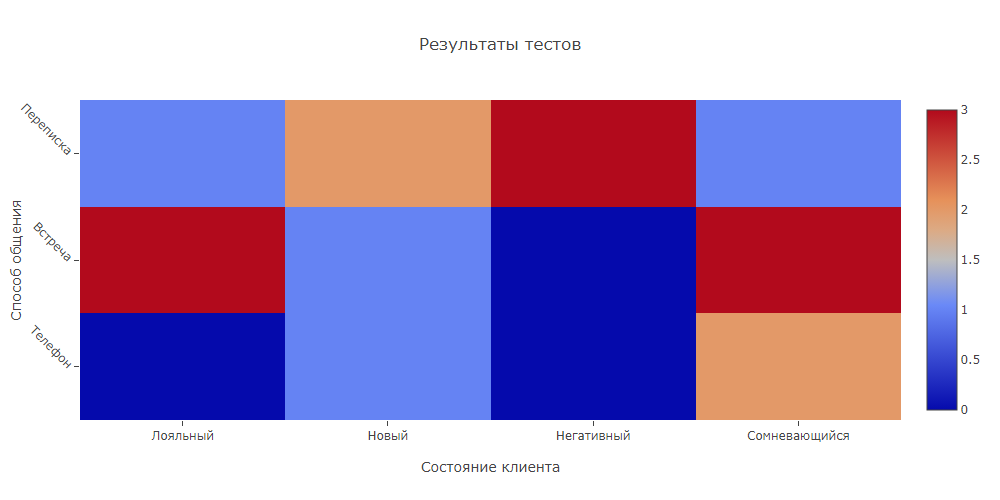
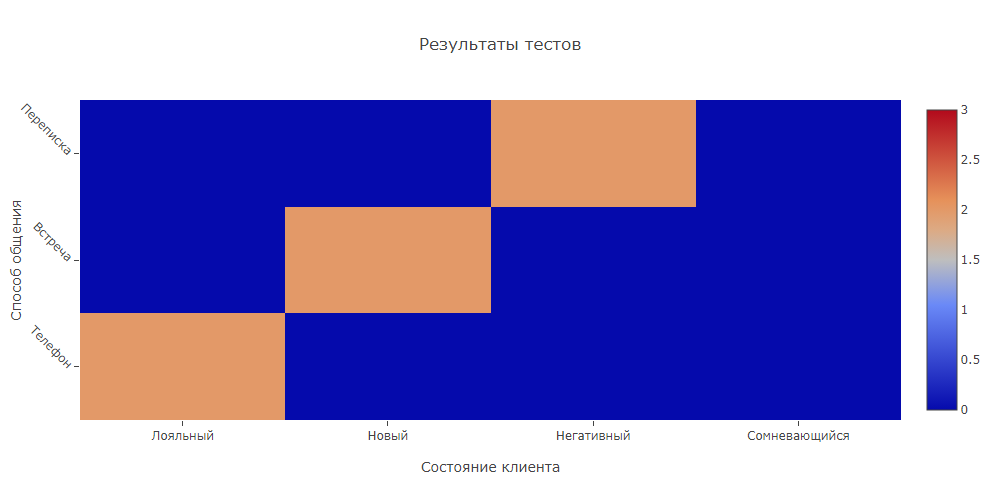
addfile

diff --git a/templates/form.html b/templates/form.html
@@ -57,15 +57,15 @@
 </head>
 <body>
    <h1>Статистика молодцов!</h1>
-    <small>Здесь вы можете просмотреть свою статистику или статистику ваших подчиненных</small>
+    <small>Заполните форму для просмотра статистики вашего подчинённого</small>
 
     <form id="form" onsubmit="event.preventDefault(); submitForm();">
         <div id="form-fields">
             <label for="user-id">Ваш User ID:</label>
             <input type="text" id="user-id" required>
-            <label for="subordinate-first-name">Имя подчиненного (all - если требуется общая статистика):</label>
+            <label for="subordinate-first-name">Имя подчинённого:</label>
             <input type="text" id="subordinate-first-name" required>
-            <label for="subordinate-last-name">Фамилия подчиненного (all - если требуется общая статистика):</label>
+            <label for="subordinate-last-name">Фамилия подчинённого:</label>
             <input type="text" id="subordinate-last-name" required>
         </div>
         <button type="submit">Посмотреть статистику</button>

diff --git a/templates/statistics_page.html b/templates/statistics_page.html
@@ -46,7 +46,9 @@
         var heatmapData = [
             {
                 z: data,
-                type: 'heatmap'
+                type: 'heatmap',
+                zmin: 0,
+                zmax: 3
             }
         ];
 

diff --git a/main.py b/main.py
@@ -9,6 +9,7 @@ from jinja2 import Template
 from sendmail import mas_to_string, send_email, ask_boss
 import queue
 import requests
+from flask import request
 from html2image import Html2Image
 from PIL import Image
 from flask import Flask, render_template
@@ -20,10 +21,10 @@ from threading import Lock
 lock = Lock()
 
 bot = telebot.TeleBot('5844570225:AAHVbCClhE53DdtM-RpZ1vKjrPPB4j_I538', 'markdown')
-con = sqlite3.connect("server.db", check_same_thread=False)
-cur = con.cursor()
-conn = sqlite3.connect('users.db', check_same_thread=False)
-cursor = conn.cursor()
+db_server = sqlite3.connect("server.db", check_same_thread=False)
+cur = db_server.cursor()
+db_users = sqlite3.connect('users.db', check_same_thread=False)
+cursor = db_users.cursor()
 
 
 def set_main_menu():
@@ -50,18 +51,18 @@ def set_main_menu():
 def db_table_val1(user_id: int, user_name: str, user_status: str, username: str):
     cursor.execute('INSERT INTO users (user_id, user_name, user_status, username) VALUES (?, ?, ?, ?)',
                    (user_id, user_name, user_status, username))
-    conn.commit()
+    db_users.commit()
 
 
 def db_table_val2(user_id: int, user_status: str, user_boss: str):
     cursor.execute('INSERT INTO boss_to_users (user_id, user_status, user_boss) VALUES (?, ?, ?)',
                    (user_id, user_status, user_boss))
-    conn.commit()
+    db_users.commit()
 
 def db_table_val3(user_id: int, user_name: str, first_name: str, second_name: str, user_status: str, test_password: int, correct_answers: int, boss_id: int):
     cur.execute('INSERT INTO statistics(user_id, user_name, first_name, second_name, user_status, test_password, correct_answers, boss_id) VALUES (?, ?, ?, ?, ?, ?, ?, ?)',
                    (user_id, user_name, first_name, second_name, user_status, test_password, correct_answers, boss_id))
-    con.commit()
+    db_server.commit()
 
 
 # эта функция обрезает чёрный фон вокруг картинки со статистикой
@@ -132,20 +133,27 @@ def get_text_messages(message):
         bot.send_message(message.from_user.id, "Напишите /start")
         # mutex.release()
     elif message.text == "/show_statistic":
+        user_id = message.from_user.id
+        requests.post('http://127.0.0.1:8080/update', json={"user_id": user_id})
         for value in cursor.execute('SELECT * FROM users WHERE user_id=?', (message.from_user.id,)):
             print(value[2], ' ', value[3])
-            if value[2] == 'manager':
+            if value[2] == 'boss':
                 murkup = types.ReplyKeyboardMarkup(resize_keyboard=True)
                 webAppTest = types.WebAppInfo('https://anyashishkina.github.io/test_repository/')
                 murkup.add(types.InlineKeyboardButton('Заполните форму', web_app=webAppTest))
                 bot.send_message(message.from_user.id, 'Выберите тип клиента', reply_markup=murkup)
-        hti = Html2Image()
-        hti.screenshot(html_str=requests.get('http://127.0.0.1:8080/').text, save_as='statistic.png')
-        crop_background('statistic.png')
-        # mutex.acquire()
-        bot.send_photo(message.chat.id, photo=open('test.png', 'rb'),
-                       caption='Статистика')  # бот показывает картинку
-        # mutex.release()
+            else:
+                user_id = message.from_user.id
+                requests.post('http://127.0.0.1:8080/update', json={"user_id": user_id})
+
+                hti = Html2Image()
+                hti.screenshot(url=f'http://127.0.0.1:8080/?user_id={user_id}', save_as='statistic.png')
+
+                crop_background('statistic.png')
+                # mutex.acquire()
+                bot.send_photo(message.chat.id, photo=open('statistic.png', 'rb'),
+                               caption='Статистика')  # бот показывает картинку
+                # mutex.release()
     elif message.text == "Привет":
         # mutex.acquire()
         bot.send_message(message.from_user.id, "Здравствуйте! Напишите /help")
@@ -318,12 +326,12 @@ def handle_poll_answer(poll_answer):
         if len(queryy) > 0:
             cursor.execute('Update  test_results  SET num_of_right_answers=? WHERE user_id=? AND  test_id=?',
                            (result, user_id,user_id_to_test_boss_key[poll_answer.user.id][0]))
-            conn.commit()
+            db_users.commit()
         else:
             cursor.execute(
                 'INSERT Into test_results(user_id , test_id,  num_of_right_answers, num_of_questions) VALUES(?, ? ,? ,?)',
                 (user_id, user_id_to_test_boss_key[poll_answer.user.id][0], result, user_id_to_num_questions[poll_answer.user.id][0]))
-            conn.commit()
+            db_users.commit()
         user_id_to_tests_options[poll_answer.user.id][0]['result'] = 0
     # if test_id == 4 and b2b_or_b2c == 0:
     if user_id_to_tests_options[poll_answer.user.id][0]['test_id'] == 25 and \
@@ -396,7 +404,7 @@ def handle_poll_answer(poll_answer):
             user_id_to_tests_options[poll_answer.user.id][0]['b2b_or_b2c'] == 2:
         cur.execute('UPDATE statistics SET correct_answers=? WHERE test_password=? AND user_id=?',
                     (user_id_to_tests_options[poll_answer.user.id][0]['result'], user_id_to_tests_options[poll_answer.user.id][0]['test'], poll_answer.user.id))
-        con.commit()
+        db_server.commit()
         user_id_to_tests_options[poll_answer.user.id][0]['b2b_or_b2c'] = 2
 
         # mutex.acquire()
@@ -409,14 +417,24 @@ def handle_poll_answer(poll_answer):
 @bot.message_handler(content_types=['web_app_data'])
 def web_app(message: types.Message):
     res = json.loads(message.web_app_data.data)
-    first_name = res.get("first_name")
-    last_name = res.get("last_name")
+    first_name = res.get("firstName")
+    last_name = res.get("lastName")
     if first_name is not None and last_name is not None:
+        for value in cur.execute("SELECT * FROM statistics WHERE first_name = ? AND second_name = ?", (first_name, last_name,)):
+            requests.post('http://127.0.0.1:8080/update', json={"user_id": value[0]})
 
-        # mutex.acquire()
-        bot.send_message(message.from_user.id, f'Имя: {first_name}\nФамилия: {last_name}',
-                         reply_markup=types.ReplyKeyboardRemove())
-        # mutex.release()
+            hti = Html2Image()
+            hti.screenshot(url=f'http://127.0.0.1:8080/?user_id={value[0]}', save_as='statistic.png')
+
+            crop_background('statistic.png')
+            # mutex.acquire()
+            bot.send_photo(message.chat.id, photo=open('statistic.png', 'rb'),
+                           caption='Статистика')  # бот показывает картинку
+            # mutex.release()
+            # mutex.acquire()
+            bot.send_message(message.from_user.id, f'Имя: {first_name}\nФамилия: {last_name}',
+                             reply_markup=types.ReplyKeyboardRemove())
+            # mutex.release()
     else:
 
         # mutex.acquire()
@@ -483,54 +501,53 @@ def callback_worker(call):
                 bot.register_next_step_handler(send, set_boss)
 
     if call.data == "typeofclientb" or call.data == "typeofclientc":
-        if call.data == "typeofclientb" or call.data == "typeofclientc":
-            if call.data == "typeofclientb":
-                user_id_to_tests_options[call.message.chat.id][0]['test'] += 1000
-                user_id_to_tests_options[call.message.chat.id][0]['b2b_or_b2c'] = 1
-                sms1 = 'Отлично! Вы выбрали продажи компании/магазину. Пожалуйста пройдите тест для определения уровня.'
+        if call.data == "typeofclientb":
+            user_id_to_tests_options[call.message.chat.id][0]['test'] += 1000
+            user_id_to_tests_options[call.message.chat.id][0]['b2b_or_b2c'] = 1
+            sms1 = 'Отлично! Вы выбрали продажи компании/магазину. Пожалуйста пройдите тест для определения уровня.'
 
-                # mutex.acquire()
-                bot.send_message(call.message.chat.id, sms1)
-                # mutex.release()
-                for value in cur.execute("SELECT * FROM entrance_test_b2b"):
-                    answers = [value[2], value[3], value[4]]
-                    user_id_to_tests_options[call.message.chat.id][0]['correct_option'] = value[5]
-                    bot.send_poll(chat_id=call.message.chat.id, question=value[1], options=answers, type='quiz',
-                                  correct_option_id=value[5], open_period=30, is_anonymous=False)
-                    user_id_to_tests_options[call.from_user.id][0]['test_id'] += 1
-                    break
-                markup = types.ReplyKeyboardMarkup(resize_keyboard=True)
-                button_next_question = types.KeyboardButton('Следующий вопрос')
-                markup.row(button_next_question)
+            # mutex.acquire()
+            bot.send_message(call.message.chat.id, sms1)
+            # mutex.release()
+            for value in cur.execute("SELECT * FROM entrance_test_b2b"):
+                answers = [value[2], value[3], value[4]]
+                user_id_to_tests_options[call.message.chat.id][0]['correct_option'] = value[5]
+                bot.send_poll(chat_id=call.message.chat.id, question=value[1], options=answers, type='quiz',
+                              correct_option_id=value[5], open_period=30, is_anonymous=False)
+                user_id_to_tests_options[call.from_user.id][0]['test_id'] += 1
+                break
+            markup = types.ReplyKeyboardMarkup(resize_keyboard=True)
+            button_next_question = types.KeyboardButton('Следующий вопрос')
+            markup.row(button_next_question)
 
-                # mutex.acquire()
-                bot.send_message(call.message.chat.id,
-                                 'Когда будете готовы перейти к следующему вопросу, нажмите кнопку "Следующий вопрос" ',
-                                 reply_markup=markup)
-                # mutex.release()
-            else:
-                user_id_to_tests_options[call.message.chat.id][0]['test'] += 2000
-                sms1 = 'Отлично! Вы выбрали продажи частному лицу. Пожалуйста пройдите тест для определения уровня.'
+            # mutex.acquire()
+            bot.send_message(call.message.chat.id,
+                             'Когда будете готовы перейти к следующему вопросу, нажмите кнопку "Следующий вопрос" ',
+                             reply_markup=markup)
+            # mutex.release()
+        else:
+            user_id_to_tests_options[call.message.chat.id][0]['test'] += 2000
+            sms1 = 'Отлично! Вы выбрали продажи частному лицу. Пожалуйста пройдите тест для определения уровня.'
 
-                # mutex.acquire()
-                bot.send_message(call.message.chat.id, sms1)
-                # mutex.release()
-                for value in cur.execute("SELECT * FROM entrance_test_b2c"):
-                    answers = [value[2], value[3], value[4]]
-                    user_id_to_tests_options[call.from_user.id][0]['correct_option'] = value[5]
-                    bot.send_poll(chat_id=call.message.chat.id, question=value[1], options=answers, type='quiz',
-                                  correct_option_id=value[5], open_period=30, is_anonymous=False)
-                    user_id_to_tests_options[call.from_user.id][0]['test_id'] += 1
-                    break
-                markup = types.ReplyKeyboardMarkup(resize_keyboard=True)
-                button_next_question = types.KeyboardButton('Следующий вопрос')
-                markup.row(button_next_question)
+            # mutex.acquire()
+            bot.send_message(call.message.chat.id, sms1)
+            # mutex.release()
+            for value in cur.execute("SELECT * FROM entrance_test_b2c"):
+                answers = [value[2], value[3], value[4]]
+                user_id_to_tests_options[call.from_user.id][0]['correct_option'] = value[5]
+                bot.send_poll(chat_id=call.message.chat.id, question=value[1], options=answers, type='quiz',
+                              correct_option_id=value[5], open_period=30, is_anonymous=False)
+                user_id_to_tests_options[call.from_user.id][0]['test_id'] += 1
+                break
+            markup = types.ReplyKeyboardMarkup(resize_keyboard=True)
+            button_next_question = types.KeyboardButton('Следующий вопрос')
+            markup.row(button_next_question)
 
-                # mutex.acquire()
-                bot.send_message(call.message.chat.id,
-                                 'Когда будете готовы перейти к следующему вопросу, нажмите кнопку "Следующий вопрос" ',
-                                 reply_markup=markup)
-                # mutex.release()
+            # mutex.acquire()
+            bot.send_message(call.message.chat.id,
+                             'Когда будете готовы перейти к следующему вопросу, нажмите кнопку "Следующий вопрос" ',
+                             reply_markup=markup)
+            # mutex.release()
     elif call.data == 'loyal_client' or call.data == 'new_client' or call.data == 'negative_client' or call.data == 'doubting_client':
         if call.data == 'loyal_client':
             user_id_to_tests_options[call.message.chat.id][0]['test'] += 10
@@ -605,7 +622,7 @@ def set_boss(message):
     cursor.execute(
         string,
         (msg, user_id))
-    conn.commit()
+    db_users.commit()
 
 
 from collections import defaultdict
@@ -658,7 +675,6 @@ def test_from_boss(message):
                      reply_markup=markup)
     # mutex.release()
 
-
 @bot.message_handler()
 def ask_key_word(message):
     keyword = message.text
@@ -675,7 +691,7 @@ def ask_key_word(message):
         cursor.execute(
             'INSERT INTO testbase (question_number,test_id) VALUES (?, ?)',
             (1, keyword))
-        conn.commit()
+        db_users.commit()
         msg = bot.send_message(message.chat.id, 'Введите количество вопросов')
         bot.register_next_step_handler(msg, numbers)
 
@@ -716,7 +732,7 @@ def read_questions(message):
         cursor.execute(
             string,
             (2, keyword))
-        conn.commit()
+        db_users.commit()
     elif len(test_id_to_numbers[keyword]) > 2:
         quest_num = int(test_id_to_numbers[keyword][-1]) + 1
         test_id_to_numbers[keyword].append(quest_num)
@@ -724,13 +740,13 @@ def read_questions(message):
         cursor.execute(
             string,
             (quest_num, keyword))
-        conn.commit()
+        db_users.commit()
 
     string = 'UPDATE testbase SET question = ? WHERE test_id=? and question_number=?'
     cursor.execute(
         string,
         (msg, keyword, int(test_id_to_numbers[keyword][-1])))
-    conn.commit()
+    db_users.commit()
 
     with mutex:
         send = bot.send_message(message.chat.id, f'Введите 1-й вариант ответа')
@@ -764,7 +780,7 @@ def read_ans(message):
             cursor.execute(
                 string,
                 (msg, keyword, int(test_id_to_numbers[keyword][-1])))
-            conn.commit()
+            db_users.commit()
         if test_id_to_ans[keyword][-1] < 5:
             send = bot.send_message(message.chat.id, f'Введите {int(test_id_to_ans[keyword][-1])}-й вариант ответа')
             bot.register_next_step_handler(send, read_ans)
@@ -782,18 +798,35 @@ def read_ans(message):
 
 
 app = Flask(__name__)
-
-
+results = {}
 @app.route('/', methods=['GET'])
 def get_data():
-    results = {
-        "test1": 0, "test2": 1, "test3": 0,
-        "test4": 2, "test5": 3, "test6": 1,
-        "test7": 0, "test8": 3, "test9": 1,
-        "test10": 2, "test11": 3, "test12": 1,
-    }
-    matrix = [list(results.values())[i:i + 4] for i in range(0, len(results), 4)]
+    user_id = int(request.args.get('user_id', ''))
+    matrix = [list(results.get(user_id, {}).values())[i:i + 4] for i in range(0, len(results.get(user_id, {})), 4)]
     return render_template('statistics_page.html', matrix=matrix)
+
+
+@app.route('/update', methods=['POST'])
+def update_data():
+    user_id = int(request.json['user_id'])
+    print(user_id)
+    test_values = {
+        2111: 0, 2112: 0, 2113: 0,
+        2121: 0, 2122: 0, 2123: 0,
+        2131: 0, 2132: 0, 2133: 0,
+        2141: 0, 2142: 0, 2143: 0
+    }
+    for value in cur.execute("SELECT * FROM statistics WHERE user_id = ?", (user_id,)):
+        if value[5] in test_values:
+            test_values[value[5]] = value[6]
+
+    results[user_id] = {
+        "test1": test_values[2111], "test2": test_values[2121], "test3": test_values[2131],
+        "test4": test_values[2141], "test5": test_values[2112], "test6": test_values[2122],
+        "test7": test_values[2132], "test8": test_values[2142], "test9": test_values[2113],
+        "test10": test_values[2123], "test11": test_values[2133], "test12": test_values[2143],
+    }
+    return 'Updated'
 
 
 def start_bot():
